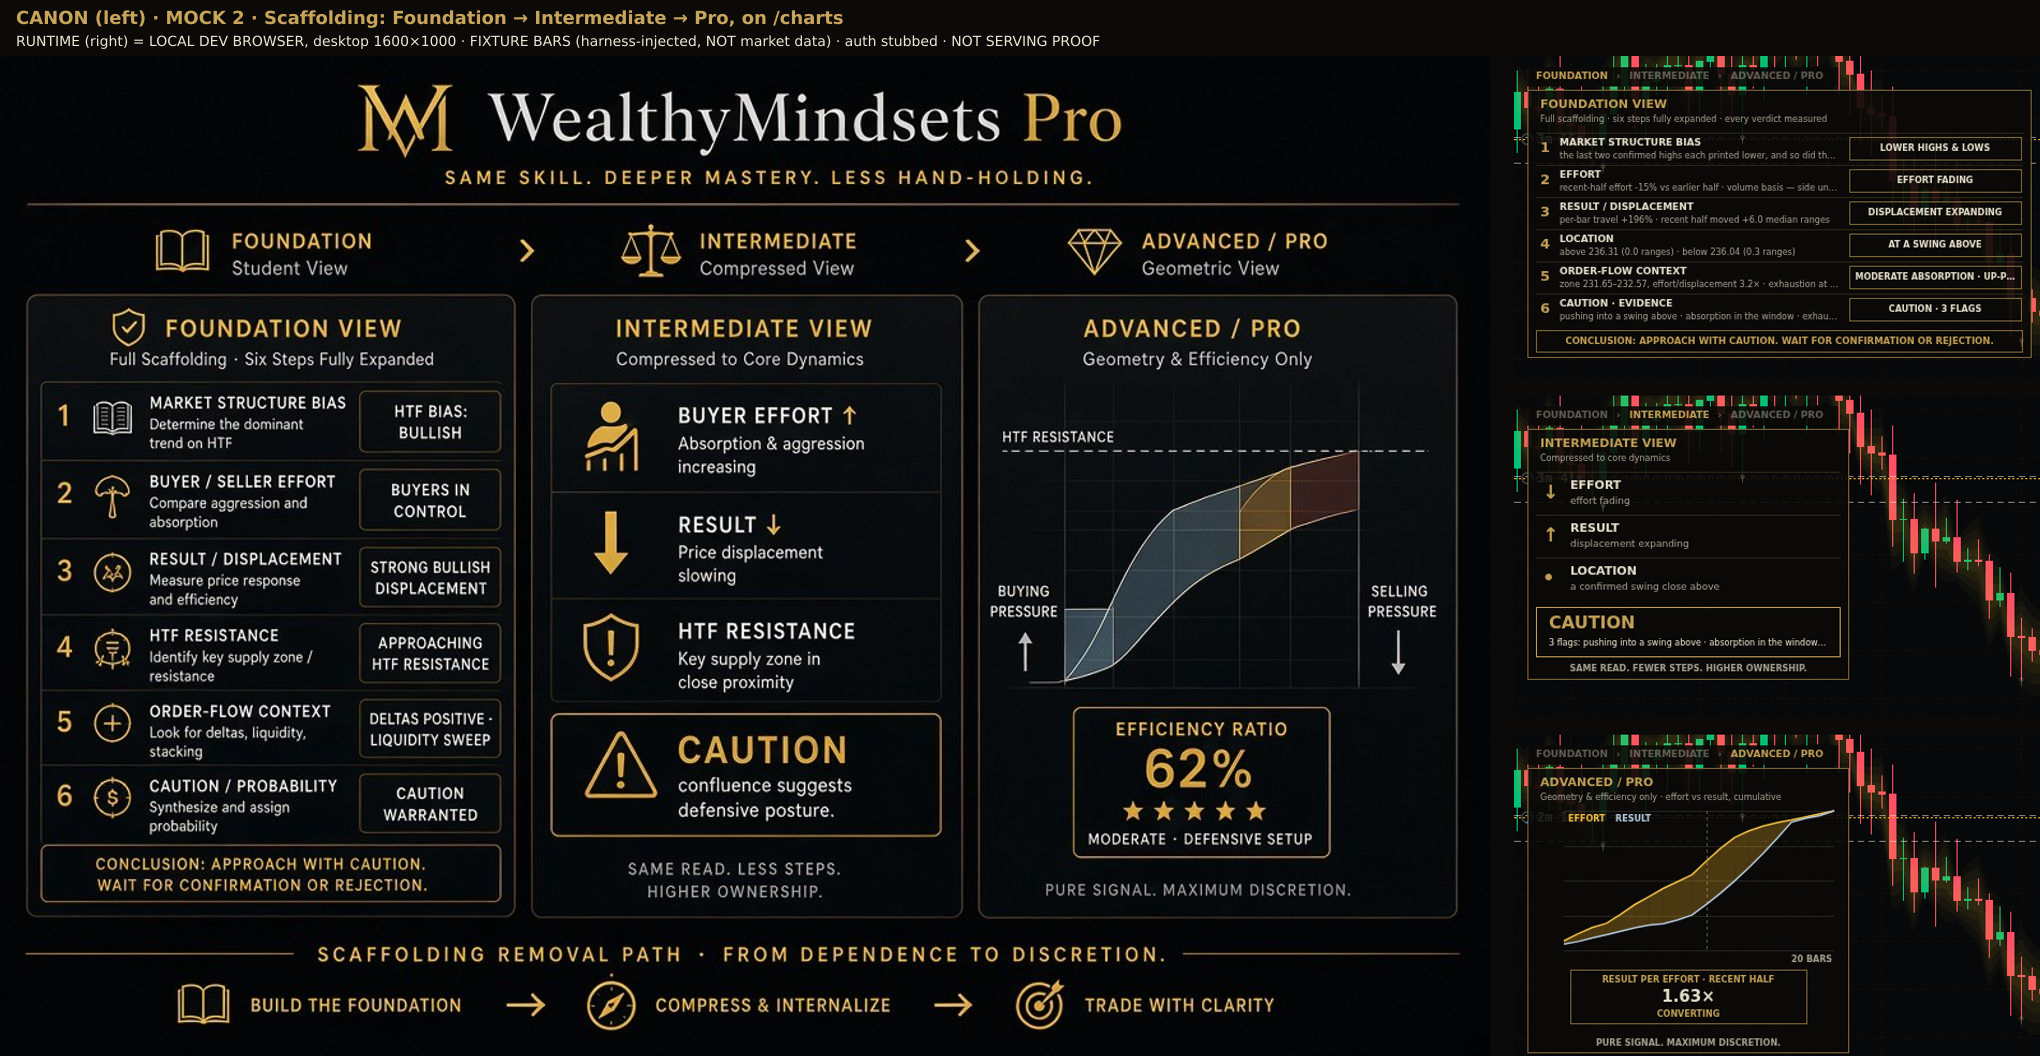
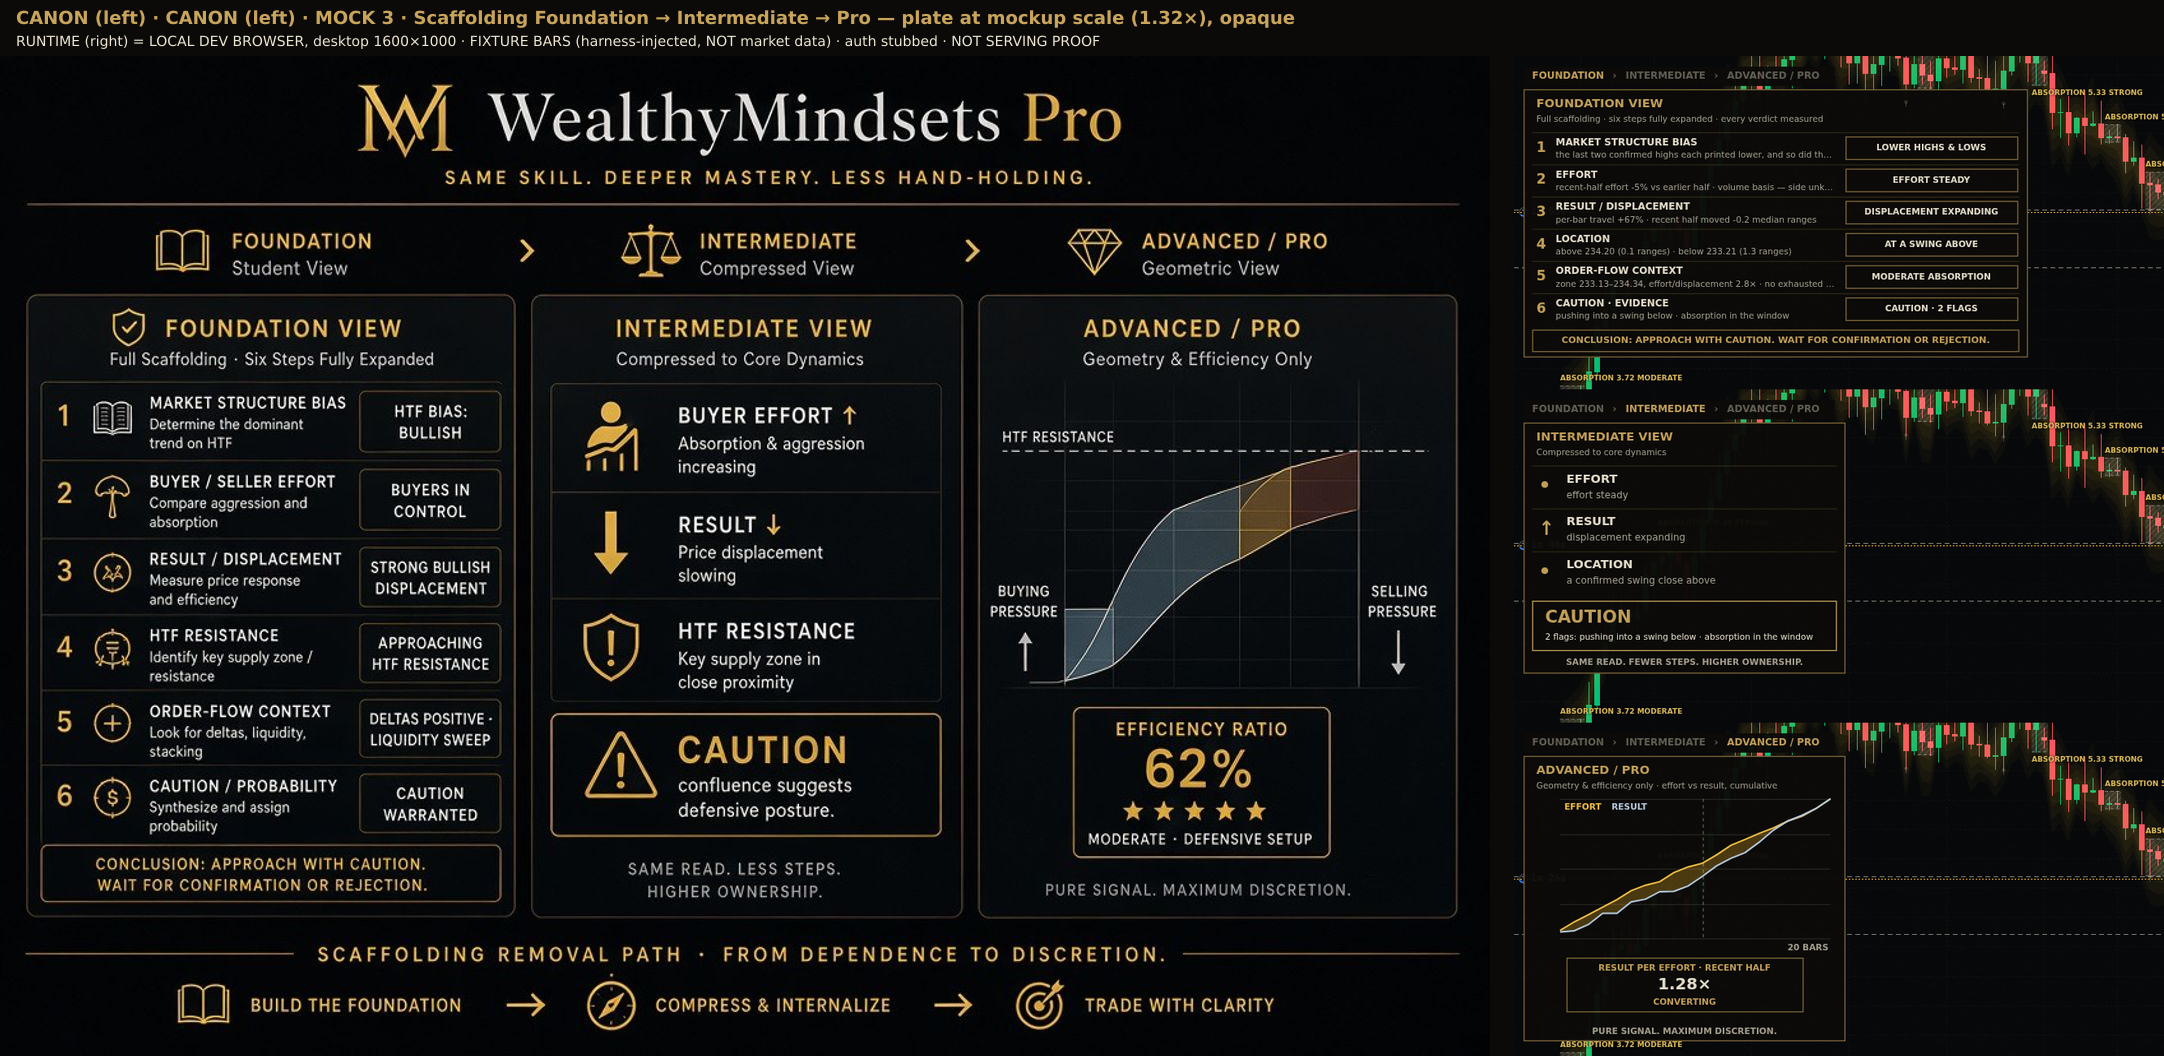
Scaffolding plate at the mockup's scale, opaque
On desktop (≥1280×820) the Foundation / Intermediate / Pro plate is
magnified 1.32× as one piece, so its geometry never drifts, and held to
the pane where it would not fit. The panel is opaque so candle chips no
longer show through the Pro graph. Receipt: ds.scaffoldingScale.

Claude-Session: https://claude.ai/code/session_01Gntm2WzCaW5uQMS2aMojoZ

diff --git a/src/components/chart/MainChart.tsx b/src/components/chart/MainChart.tsx
@@ -8407,7 +8407,7 @@ export function MainChart({ symbol, timeframe, setTimeframe, footprintType, foot
                 const GOLD = "rgba(201,165,92,0.95)";
                 const CREAM = "rgba(237,230,211,0.95)";
                 const DIM = "rgba(200,192,174,0.8)";
-                const PANEL = "rgba(11,10,8,0.9)";
+                const PANEL = "rgba(11,10,8,0.97)";
                 const HAIR = "rgba(201,165,92,0.6)";
                 const font = (w: number, px: number) => `${w} ${px}px ui-sans-serif, system-ui, sans-serif`;
                 const clip = (t: string, max: number) => {
@@ -8439,6 +8439,13 @@ export function MainChart({ symbol, timeframe, setTimeframe, footprintType, foot
 
                 const x0 = layerOnRef.current.questionLens === true && questionQuiet < 1 ? 322 : 12;
                 const y0 = 176;
+                // MOCKUP SCALE. At desktop size the Founder's plate reads its
+                // tiers at ~1.3× what the 8–11px chrome gave; the whole plate
+                // is magnified as one piece so its geometry never drifts. Held
+                // to 1 where the enlarged Foundation plate would leave the pane.
+                const scafK = W >= 1280 && H >= 820 ? Math.min(1.32, (H - y0 - 40) / 300, (W - x0 - 120) / 470) : 1;
+                if (scafK > 1) { ctx.translate(x0, y0); ctx.scale(scafK, scafK); ctx.translate(-x0, -y0); }
+                ds.scaffoldingScale = scafK.toFixed(2);
                 // The removal path: where this depth sits.
                 ctx.font = font(700, 9);
                 ctx.fillStyle = PANEL;
